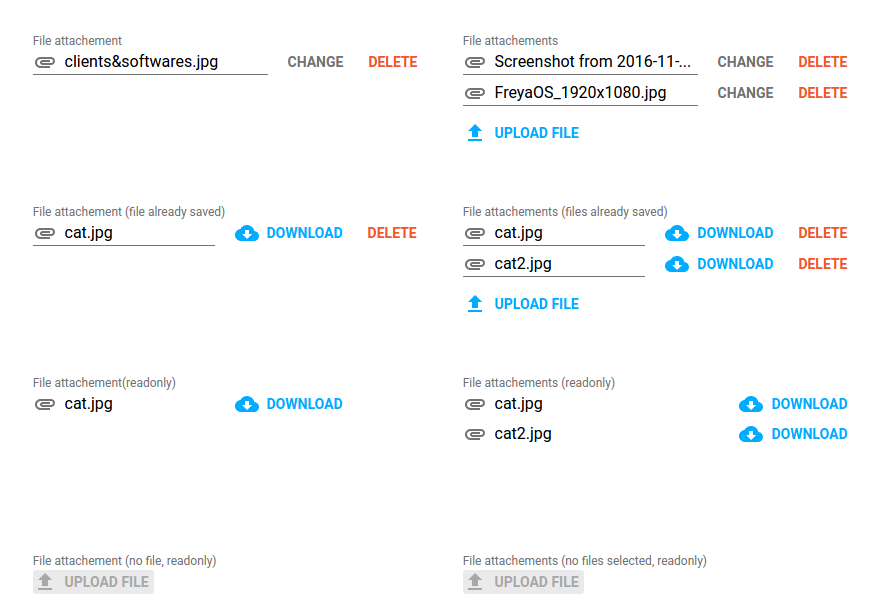
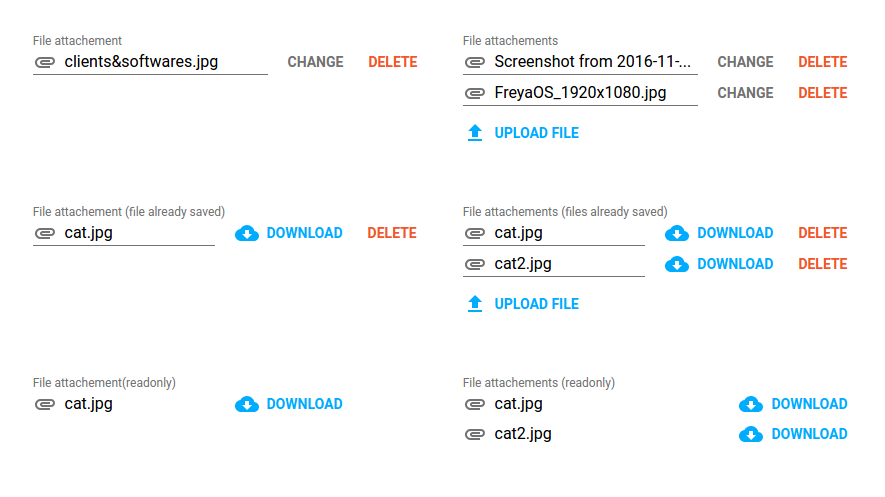
No file attached msg in readonly state

diff --git a/etools-file.html b/etools-file.html
@@ -208,6 +208,12 @@ Custom property | Description | Default
         display: none;
       }
 
+      .no-file-and-readonly {
+        @apply(--layout-vertical);
+        @apply(--layout-center-justified);
+        height: 24px;
+      }
+
     </style>
 
     <paper-input-container always-float-label disabled$="[[disabled]]" invalid$="[[invalid]]">
@@ -255,7 +261,7 @@ Custom property | Description | Default
           </template>
         </div>
 
-        <div class="upload-button-wrapper" hidden$="[[!_showUploadBtn(files.length)]]">
+        <div class="upload-button-wrapper" hidden$="[[!_showUploadBtn(files.length, readonly)]]">
           <span>
             <paper-button class="upload-button"
                           on-tap="_openFileChooser"
@@ -265,6 +271,9 @@ Custom property | Description | Default
             [[uploadLabel]]
             </paper-button>
           </span>
+        </div>
+        <div class="no-file-and-readonly" hidden$="[[!_showNoFileAttachedMsg(files.length, readonly)]]">
+          [[noFileAttachedMsg]]
         </div>
       </div>
 
@@ -340,6 +349,10 @@ Custom property | Description | Default
             value: function() {
               return '';
             }
+          },
+          noFileAttachedMsg: {
+            type: String,
+            value: 'No file attached'
           }
         },
 
@@ -360,11 +373,20 @@ Custom property | Description | Default
           return typeof label === 'string' && label !== '';
         },
 
-        _showUploadBtn: function(filesLength) {
+        _showUploadBtn: function(filesLength, readonly) {
           if (!this.multiple && filesLength > 0) {
             return false;
           }
+
+          if (filesLength === 0 && readonly === true) {
+            return false;
+          }
+
           return true;
+        },
+
+        _showNoFileAttachedMsg: function(filesLength, readonly) {
+          return filesLength === 0 && readonly === true;
         },
 
         _showDownloadBtn: function(file) {

diff --git a/demo/index.html b/demo/index.html
@@ -78,11 +78,10 @@
       <div class="layout horizontal wrap center-justified" style="margin-top: 40px;">
         <div class="flex-6" style="padding: 0 20px;box-sizing: border-box;overflow:hidden;">
 
-          <etools-file files=[[someFileData]] label="File attachement (no file, readonly)" readonly></etools-file>
+          <etools-file files=[[someFileDataaaa]] label="File attachement (no file, readonly)" readonly></etools-file>
 
         </div>
         <div class="flex-6" style="padding: 0 20px; box-sizing: border-box;overflow:hidden;">
-
           <etools-file multiple="[[someFilesData]]" label="File attachements (no files selected, readonly)" multiple readonly></etools-file>
 
         </div>

diff --git a/README.md b/README.md
@@ -6,6 +6,7 @@ The component doesn't upload the files, it just manages an array of them, which 
 ![alt tag](etools-file-unselected-files.png)
 ![alt tag](etools-file-examples.png)
 ![alt tag](etools-file-error.png)
+![alt tag](etools-file-readonly-no-file-attached.png)
 
 ## Usage
 
@@ -35,7 +36,8 @@ Properties:
 * readonly, Boolean, default: false
 * uploadLabel, String, default: 'Upload File'
 * invalid, Boolean, default: false
-* errorMessage, String, default ''
+* errorMessage, String, default: ''
+* noFileAttachedMsg, String, default: 'No file attached'
 
 ## Styling
 
